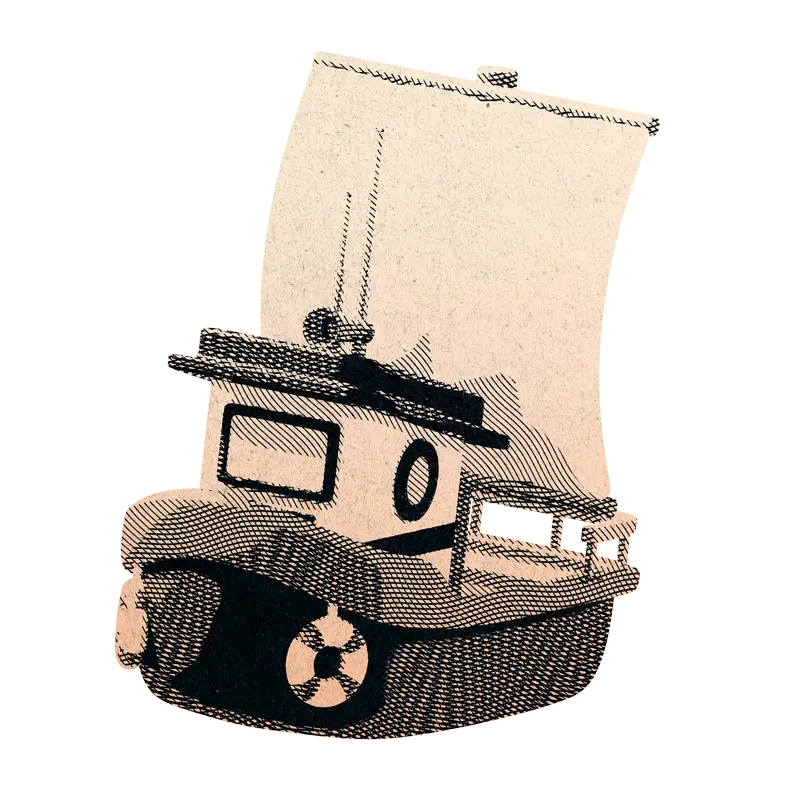
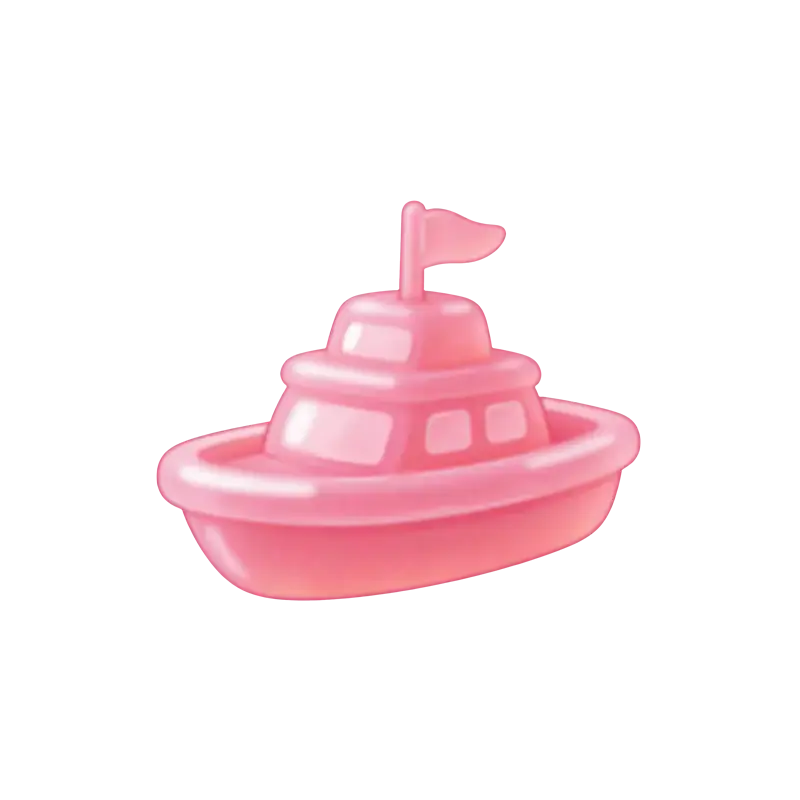
impl day & activities

diff --git a/templates/impl-day.html b/templates/impl-day.html
@@ -13,15 +13,15 @@
         <div class="container blurred-background p-1">
           <div class="mb-7 workshop-hero__topline">
             <p class="workshop-hero__details">
-              <a href="/2025/schedule" class="inline">»Schedule</a><br />
-              October 11, 2025, Paris<br />
+              <a href="/schedule" class="inline">»Schedule</a><br />
+              October 17, 2026, Barcelona<br />
               10:00–16:00<br />
-              Location: Stockly HQ, 8 Rue du Sentier, 75002 Paris
+              Location: Helsing Office, One Parc Central, Carrer del Marroc, 33, Sant Martí, 08018 Barcelona
             </p>
             <div class="workshop-hero__sponsor-container">
               <div class="workshop-hero__sponsor">
                 <p>Hosted by</p>
-                <img src="/2025/images/workshops/workshop-sponsors/stockly.svg" alt="Stockly logo" />
+                <img src="/images/sponsors/helsing.svg" alt="Helsing logo" />
               </div>
             </div>
           </div>
@@ -58,27 +58,23 @@
               <h5 class="mb-4">Hosted by</h5>
             </div>
             <div class="sponsor__grid-name">
-              <h2 class="mb-4">Stockly</h2>
+              <h2 class="mb-4">Helsing</h2>
             </div>
             <div class="sponsor__grid-bio blurred-background">
               <p class="">
-                Stockly enables e-retailers to sell products they don't have in stock by having the products shipped by
-                other official resellers and brands in the network.
+                Helsing is a new type of defence AI company. We believe that software, in particular artificial
+                intelligence, will be the key to protecting our democracies.
               </p>
             </div>
             <div class="sponsor__grid-photo-links">
               <div class="photo-container">
-                <img
-                  class="photo sponsor-logo"
-                  src="/2025/images/workshops/workshop-sponsors/stockly.svg"
-                  alt="Stockly logo"
-                />
+                <img class="photo sponsor-logo" src="/images/sponsors/helsing.svg" alt="Helsing logo" />
               </div>
               <div class="links mt-5">
                 <ul class="social mt-3">
                   <li>
                     <a
-                      href="https://stockly.ai/?utm_source=eurorust"
+                      href="https://www.helsing.ai/?utm_source=eurorust"
                       target="_blank"
                       rel="noopener noreferrer"
                       class="btn__icon"
@@ -96,21 +92,22 @@
         <div class="container py-8">
           <div class="sponsor__grid">
             <div class="sponsor__grid-title">
-              <h5 class="mb-4">Ipml Day venue</h5>
+              <h5 class="mb-4">Impl Day venue</h5>
             </div>
             <div class="sponsor__grid-name">
-              <h2 class="mb-4">Stockly HQ</h2>
+              <h2 class="mb-4">Helsing Office</h2>
             </div>
             <div class="sponsor__grid-bio blurred-background">
               <p class=""></p>
               <p class="mb-4">
-                Stockly will host the impl Day/Unconference in their office in 8 Rue du Sentier, 75002 Paris.
+                Helsing will host the impl Day/Unconference in their office at One Parc Central, Carrer del Marroc, 33,
+                Sant Martí, 08018 Barcelona.
               </p>
-              <a href="https://maps.app.goo.gl/gQrfzPksxjG8m323A" target="_blank">View on map</a>
+              <a href="https://maps.app.goo.gl/JoSCFq5rwbS5RTfj6" target="_blank">View on map</a>
             </div>
             <div class="sponsor__grid-photo-links">
               <div class="photo-container">
-                <img class="image-workshop-venue" src="/2025/images/stockly-office.jpg" alt="venue picture" />
+                <img class="image-workshop-venue" src="/2025/images/helsing -office.jpg" alt="venue picture" />
               </div>
             </div>
           </div>

diff --git a/templates/schedule.html b/templates/schedule.html
@@ -83,12 +83,13 @@
                         <p class="pb-4">
                           <strong
                             >The EuroRust workshops will take place in a separate venue,
-                            <a
+                            <!-- <a
                               style="display:inline; text-shadow:none"
                               href="https://maps.app.goo.gl/KVWt3iy6rVuuQQ3h7"
                               target="_blank"
-                              >Fiap Paris</a
-                            ></strong
+                              >Fiap Paris</a -->
+                              TBA
+                            </strong
                           >
                         </p>
                       </td>
@@ -196,8 +197,7 @@
                         <p><strong>20:00</strong></p>
                         <p><strong>Group Dinners: Meet & Eat!</strong></p>
                         <p class="pb-5">
-                          We have reservations at various local restaurants in Paris. Sign up at the conference venue to
-                          join fellow Rustaceans for a dinner of your choice!
+                          We have reservations at various local restaurants in Barcelona. Join fellow Rustaceans for a dinner of your choice!
                         </p>
                       </div>
                     </div>
@@ -283,8 +283,7 @@
                               <p><strong>20:00</strong></p>
                               <p><strong>Group Dinners: Meet & Eat!</strong></p>
                               <p>
-                                We have reservations at various local restaurants in Paris. Sign up at the conference
-                                venue to join fellow Rustaceans for a dinner of your choice!
+                                We have reservations at various local restaurants in Barcelona. Join fellow Rustaceans for a dinner of your choice!
                               </p>
                             </div>
                           </div>

diff --git a/templates/partials/activity-card-workshop.html b/templates/partials/activity-card-workshop.html
@@ -1,11 +1,11 @@
 <div class="activity-card activity-card__workshop mb-2">
   <!-- is this workshop held on Oct. 8 or the main even days?. Load the approrpiate database and set the 'time' variable accordingly -->
   {% if workshopType %}
-    {% set path = "2025/workshops/" ~ workshopType ~ ".md" %}
+    {% set path = "workshops/" ~ workshopType ~ ".md" %}
     {% set event = get_page(path = path) %}
     {% set time = event.extra.time %}
   {% elif activity.title %}
-    {% set path = "2025/workshops/" ~ activity.title ~ ".md" %}
+    {% set path = "workshops/" ~ activity.title ~ ".md" %}
     {% set event = get_page(path = path) %}
     {% set time = activity.time %}
   {% endif %}

diff --git a/content/activities/boat-tour.md b/content/activities/boat-tour.md
@@ -1,13 +1,13 @@
 +++
-title = "Cruise tour on the Seine"
+title = "Barcelona Sunset Catamaran Tour"
 template = "activity.html"
 [extra]
-  date = "Wednesday, October 08, "
-  time = "16:45–17:45"
-  location = "2 Port de Suffren, 75007 Paris"
-  location_name = "Vedettes de Paris"
-  location_url = "https://maps.app.goo.gl/dCSuQP78xPA9oKUM6"
-  abstract = "See Paris and the Seine with new eyes! During a one-hour cruise on the Seine, let yourself be seduced by the elegance of the monuments and the poetry of the Parisian bridges, in an atmosphere of sharing, discovery and conviviality.<br/><br/>Our expert guides will reveal the capital’s best-kept secrets through stories, anecdotes and lively exchanges. This guided cruise is much more than a simple tour: it’s a true immersion in the history and soul of Paris.<br/><br/>Watch the Eiffel Tower rise above the river, then let your gaze glide over the Grand Palais, the Invalides, the Place de la Concorde, the Musée d’Orsay, the Louvre, the Académie Française, the Conciergerie, Notre-Dame de Paris, the Hôtel de Ville, all the way to the Institut du Monde Arabe. An exceptional cruise, between architectural masterpieces and sparkling reflections on the water.<strong>Please arrive at the location 10/15 minutes before departure time.</strong>"
+  date = "Wednesday, October 14, "
+  time = "18:30–20:00"
+  location = "Escullera del Poblenou, 1, 08005 Barcelona"
+  location_name = "Escullera del Poblenou"
+  location_url = "https://maps.app.goo.gl/f9eswDFNu6ZXnedt5"
+  abstract = "Set sail along the Barcelona coastline aboard a catamaran as the sun dips below the horizon. A stunning way to round off the day, taking in the city's skyline from the water and meeting other fellow Rustaceans.<br/><br/>Not included: Food and drinks."
   ogimage = "/images/activities/og-images/boat-tour.png"
   heroimage = "/images/activities/boat-tour.webp"
   heroimage_alt = "Boat"

diff --git a/content/activities/bike-tour.md b/content/activities/bike-tour.md
@@ -1,15 +1,14 @@
 +++
-title = "The Seine bike tour"
+title = "Barcelona bike tour"
 template = "activity.html"
 [extra]
-  date = "Wednesday, October 08, "
+  date = "Wednesday, October 14, "
   time = "14:30–17:30"
-  location = "13 rue Brantôme, 75003 Paris"
-  location_name = "Paris Bike Tour"
-  location_url = "https://maps.app.goo.gl/KyTC1JdrMwzwgh22A"
-  abstract = "Take in the most iconic sights of the capital while following the banks of the Seine (a UNESCO world cultural heritage site). A unique spectacle is waiting for you!<br/><br/>We start on the right bank of the Seine. Our first crossing is the Pont Notre-Dame in our adventure of discovery as we follow Paris’s winding history. From the Notre Dame Cathedral to the Eiffel tower; from the Palais de Chaillot to the Louvre Palace –you will enjoy the most beautiful perspectives that offer Paris while your professional guide will allow you to discover prestigious monuments and multiples treasures of the city…<br/><br/><strong>Please be at the venue 10/15 minutes before departure time.</strong><br/><br/><strong>Included in the tour:</strong> Bicycle, accessories (helmet, basket, poncho), professional national guide, insurance.<br/><br/><strong>The price does not include:</strong> Food and drinks"
+  location = "Plaça de Sant Agustí Vell, 16, 08003 Barcelona"
+  location_name = "Plaça de Sant Agustí Vell"
+  location_url = "https://maps.app.goo.gl/bt29dFBtN2o1hqME7"
+  abstract = "Discover Barcelona by bike in this private guided tour through the city's most iconic sights. Starting and finishing at the workshop in the heart of El Born, your expert local guide will take you through Barcelona's highlights at a relaxed pace, sharing stories, history, and hidden gems along the way.<br/><br/>Included: Bicycle, professional local guide, insurance.<br/>Not included: Helmet, water, food and drinks."
   ogimage = "/images/activities/og-images/bike-tour.png"
   heroimage = "/images/activities/bike-tour.webp"
   heroimage_alt = "Bicycle"
 +++
-

diff --git a/content/activities/impl-day.md b/content/activities/impl-day.md
@@ -2,12 +2,11 @@
 title = "impl Day/Unconference"
 template = "impl-day.html"
 [extra]
-  location = "8 Rue du Sentier, 75002 Paris"
-  location_name = "Stockly HQ"
+  location = "One Parc Central, Carrer del Marroc, 33, Sant Martí, 08018 Barcelona, Spain"
+  location_name = "Helsing Office"
   location_url = "https://maps.app.goo.gl/gQrfzPksxjG8m323A"
-  link = "https://github.com/mainmatter/eurorust--impl-room-impl-day"
-  link_cta = "Open GitHub Repo"
-  abstract = "Join us the Saturday after the main conference for a collaborative day with the Rust community. Whether you want to hack on open source, share challenges and experiences, or simply connect with fellow Rustaceans over ideas and conversations — this day is for you.<br /><br />The format is open and community-driven, giving everyone the space to contribute, propose topics, and shape the day together. Check out the dedicated GitHub repository for all information!"
+ 
+  abstract = "Join us the Saturday after the main conference for a collaborative day with the Rust community. Whether you want to hack on open source, share challenges and experiences, or simply connect with fellow Rustaceans over ideas and conversations — this day is for you.<br /><br />The format is open and community-driven, giving everyone the space to contribute, propose topics, and shape the day together."
   ogimage = "/images/activities/og-images/impl-day.png"
   heroimage = "/images/activities/impl-day.webp"
   heroimage_alt = "Astronaut typing on a laptop"